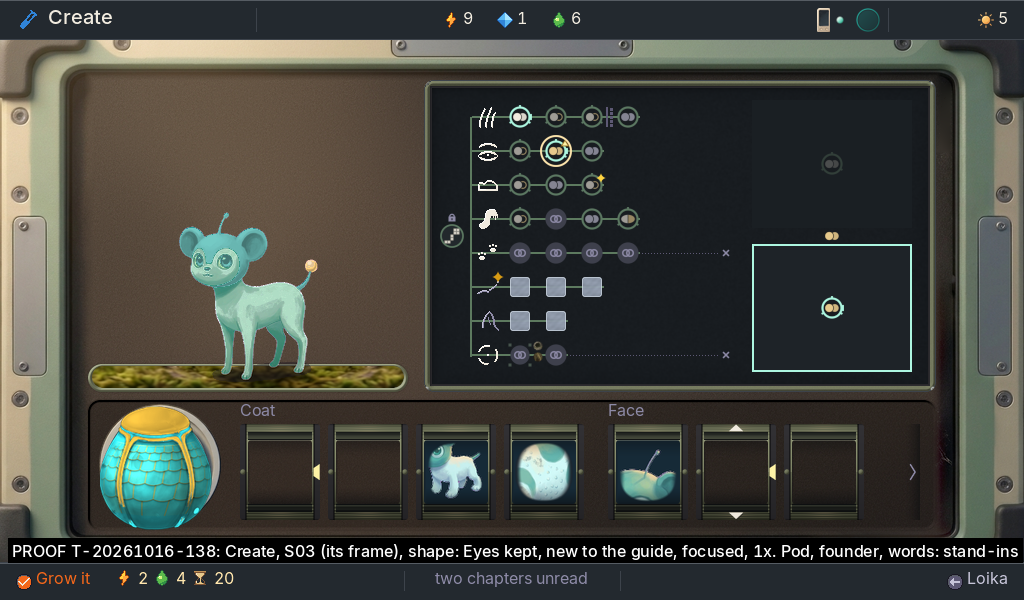
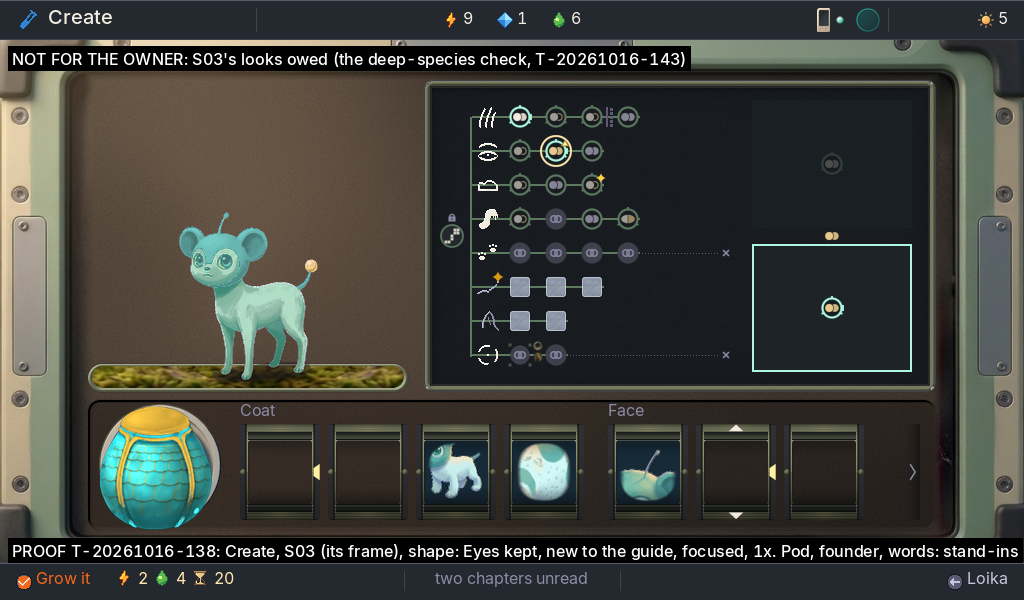
Genome screen: the owner's Create proof on S01; S03's proofs labelled the deep-species check; S03's owed looks listed (T-20261016-143)

Changed region(s): [[0.0, 0.06, 0.6875, 0.12]]

diff --git a/art/station-masters/pods/genome-screen/proof.py b/art/station-masters/pods/genome-screen/proof.py
@@ -145,3 +145,62 @@ for i, e_ in enumerate(EMB):
     for j, st_ in enumerate(("read", "unread")): em.alpha_composite(S(f"rail-emblem-{e_}-{st_}-24x24"), (8 + i * 32, 8 + j * 32))
 em.convert("RGB").save(os.path.join(out, "emblems-on-slate-1x.png")); em.resize((em.width * 3, em.height * 3), Image.NEAREST).convert("RGB").save(os.path.join(out, "emblems-on-slate-3x.png"))
 print("sheets written")
+# T-20261016-143: Create on S01 for the owner (every drum and the bay with their pictures): shape, Crown changed (leaf crest, lit, the
+# notch), focus on Eyes, so the bay shows its two copies (thin rings shown in the mint frame, wide pale rings carried behind the veil)
+def pod_s01(w, h):
+    g = lambda n: np.asarray(Lo(f"{sl}/pod-large-{n}.png")).astype(float)
+    A, B = np.array([0x46, 0x54, 0x59], float), np.array([0xdf, 0xd2, 0xae], float)
+    shade = g("shade"); body, acc, pt = g("mask-body")[..., 3] / 255, g("mask-accent")[..., 3] / 255, g("pattern-dots")[..., 3] / 255
+    col = (A * (body * (1 - pt))[..., None] + B * np.minimum(1, acc + pt)[..., None]) * (2 * shade[..., :3] / 255)
+    alpha = np.maximum(body, acc) * (shade[..., 3] / 255 > 0)
+    return Image.fromarray(np.dstack([np.clip(col, 0, 255), alpha * 255]).astype(np.uint8), "RGBA").resize((w, h), Image.LANCZOS)
+def create_s01():
+    f = Lo(os.path.join(gold, "create", "create-shape.png")); f.alpha_composite(S("create-bench"), (0, 40))
+    f.alpha_composite(S("create-port-128x122"), (96, 404)); f.alpha_composite(pod_s01(112, 136), (100, 394))
+    f.alpha_composite(S("create-dish-320x28"), (88, 364))
+    fa = np.asarray(S("founder-S01-base-304x312"))[..., 3]; fb = np.nonzero((fa > 128).any(1))[0].max(); cols = np.nonzero((fa[fb - 24:fb + 1] > 128).any(0))[0]
+    yy, xx = np.mgrid[0:600, 0:1024] + .5; e = ((xx - (96 + (cols.min() + cols.max()) / 2)) / ((cols.max() - cols.min()) / 2 + 8)) ** 2 + ((yy - (76 + fb - 6)) / 8) ** 2
+    from scipy import ndimage as ndi
+    sh = ndi.gaussian_filter((e < 1).astype(float), 2.5) * 0.55; fr = np.asarray(f).astype(float); fr[..., :3] *= (1 - sh)[..., None]; f = Image.fromarray(fr.astype(np.uint8), "RGBA")
+    f.alpha_composite(S("founder-S01-base-304x312"), (96, 76)); f.alpha_composite(S("founder-S01-crown-leaf-crest-304x312"), (96, 76))
+    f.alpha_composite(S("create-genome-screen-512x312"), (424, 80))
+    rows = [("coat", True, False, [G("open", "front-dim")]),                                  # Markings: a switch with no sleeping loci (no bar)
+            ("face", True, False, [G("open-lit", "second-lit"), G("open", "front-dim")]),     # Crown changed (leaf crest kept), Eyes
+            ("movement", True, False, [G("closed")]), ("stamina", True, False, [G("closed")])]
+    tops = [96 + 5 + 34 * i for i in range(len(rows))]; trunk = 470
+    rect(f, trunk, tops[0] + 16, 2, tops[-1] - tops[0] + 2, LINE)
+    hy = 96 + 5 + 34 * 2 - 13; f.alpha_composite(S("genome-hub-S01-24x24"), (440, hy)); f.alpha_composite(S("genome-lock-8x10"), (448, hy - 12))
+    for i, (ch, read, glint, genes) in enumerate(rows):
+        t = tops[i]; xend = 508 + 36 * (len(genes) - 1) + 24
+        rect(f, trunk + 2, t + 15, xend - trunk - 2, 2, LINE); f.alpha_composite(S(f"rail-emblem-{ch}-read-24x24"), (476, t + 4))
+        for j, g in enumerate(genes): gene(f, 508 + 36 * j, t + 4, g["kind"], g["pair"])
+        if genes[-1]["kind"] == "closed":
+            xs = xend + 2
+            while xs < 718: rect(f, xs, t + 16, 1, 1, DOT); xs += 3
+            f.alpha_composite(S("genome-cross-12x12"), (720, t + 10))
+    f.alpha_composite(S("genome-focus-32x32"), (544 - 4, tops[1] + 4 - 4))                 # the focus: Eyes
+    f.alpha_composite(S("trait-S01-eyes-thin-rings-160x128"), (752, 100))                   # copy 1, shown: the mint frame
+    d = ImageDraw.Draw(f); d.rectangle([752, 100, 752 + 159, 100 + 127], outline=C("mint"), width=2)
+    f.alpha_composite(S("trait-S01-eyes-wide-pale-rings-160x128"), (752, 244)); f.alpha_composite(S("genome-veil-160x128"), (752, 244))   # copy 2, carried
+    f.alpha_composite(S("genome-pair-front-dim-16x10"), (744 + 80, 96 + 135))
+    # the bank: S01's five drums at the spec's spacing (g 28, the chapter gap 84), each with its close-up and its neighbours' faces
+    drums = [(240, "rest", "markings", ["plain", "pale-patches"], 0), (404, "rest", "crown", ["bare-head", "leaf-crest"], 1),
+             (512, "rest", "eyes", ["thin-rings", "between", "wide-pale-rings"], 0), (676, "pinned", "drive", None, 0), (840, "pinned", "efficiency", None, 0)]
+    for x, st, tr, faces, i in drums:
+        look = f"look-S01-{tr}-{faces[i]}-64x64" if faces else f"look-S01-{tr}-64x64"
+        f.alpha_composite(S(look), (x + 8, 440)); f.alpha_composite(S(f"create-drum-{st}"), (x, 424))
+        if faces and len(faces) > 1:
+            pv = S(f"look-S01-{tr}-{faces[(i - 1) % len(faces)]}-64x64"); nx = S(f"look-S01-{tr}-{faces[(i + 1) % len(faces)]}-64x64")
+            f.alpha_composite(pv.crop((0, 56, 64, 64)), (x + 8, 432)); f.alpha_composite(nx.crop((0, 0, 64, 8)), (x + 8, 504))
+        f.alpha_composite(S("create-drum-shade-80x96"), (x, 424))
+        if tr == "crown": f.alpha_composite(S("create-drum-notch"), (x + 72, 464))
+        if tr == "eyes": f.alpha_composite(S("create-drum-turn-up"), (x + 32, 424)); f.alpha_composite(S("create-drum-turn-down"), (x + 32, 512))
+    d = ImageDraw.Draw(f)
+    for wd, x in (("Coat", 240), ("Face", 404), ("Movement", 676), ("Stamina", 840)): d.text((x, 400), wd, font=F("Regular", 16), fill=C("mist"))
+    label(f, "PROOF T-20261016-143: Create, S01, shape: Crown changed, Eyes focused (its two copies in the bay), 1x. Pod, words: stand-ins", 538)
+    return f.convert("RGB")
+create_s01().save(os.path.join(out, "genome-create-S01-1x.png"))
+# the S03 proofs stay as the deep-species check: relabel them "not for the owner"
+for n in ("genome-create-S03-1x.png", "genome-create-S03-clash-1x.png"):
+    im = Image.open(os.path.join(out, n)).convert("RGBA"); label(im, "NOT FOR THE OWNER: S03's looks owed (the deep-species check, T-20261016-143)", 46); im.convert("RGB").save(os.path.join(out, n))
+print("S01 proof written")

diff --git a/art/station-masters/pods/genome-screen/README.md b/art/station-masters/pods/genome-screen/README.md
@@ -83,3 +83,31 @@ The genome engineer checked the screen against the real frames (T-135), and T-13
 - **`genome-marks-1x.png` and `-4x.png`:** the mark family with the delta.
 
 **Brightness (Incubator), re-taken:** margins of 0.388, 0.337, 0.466 and 0.473 (cool, warm, glowing, ready), against a minimum of 0.08.
+
+## T-20261016-143: a Create proof the owner can read (S01); S03's owed looks
+The review (`results/review-genome-screen-art.md` §1) passed the marks but found the S03 proof unreadable for the owner. S03's looks are mostly unpainted, so its bay showed two near-empty frames and four of its seven drums were blank.
+
+**`proof/genome-create-S01-1x.png`, the owner's proof:** Create on S01, shape.
+- **The changes:** Crown changed to the leaf crest (lit, with its notch on the drum), and the founder wears it.
+- **The focus:** on Eyes. The bay shows its two copies as pictures: thin rings shown, in the mint frame; wide pale rings carried behind the veil.
+- **The drums:** all five, at the spec's spacing (g 28). Each carries its close-up and its neighbouring faces; the two doings are pinned.
+- **Nothing new is painted.**
+
+**The S03 proofs stay as the deep-species check.** `genome-create-S03-1x.png` and `-clash-1x.png` are now labelled "NOT FOR THE OWNER: S03's looks owed".
+
+**S03's owed looks (no painting yet), a separate art ask for the lead.** Read from S03's frame (its shapeable looks), against `slices/`.
+- **Drum close-ups, `look-S03-{trait}-{look}-64x64`, 31 owed** (16 exist):
+  - **Coat:**
+    - Colour: lagoon, jade, marigold, periwinkle, two side by side;
+    - Trim: milk-mint, cream, ice, slate, two side by side.
+  - **Face:**
+    - Eyes: small and close, between, big and wide;
+    - Snout: short and narrow, between, long and broad.
+  - **Shape:**
+    - Build: slim, between, stout;
+    - Haunch: small, between, full;
+    - Topline: dipping, level, arched.
+  - **Legs and tail:**
+    - Legs: short and fine, between, long and stout;
+    - Claws: round feet, pads, digging wedges. Claws is breed-only, so these are needed only if its pinned drum shows a face.
+- **Copy faces for the bay, `trait-S03-{trait}-{look}-160x128`, 28 owed:** the same looks, less Claws, whose three crops exist.
